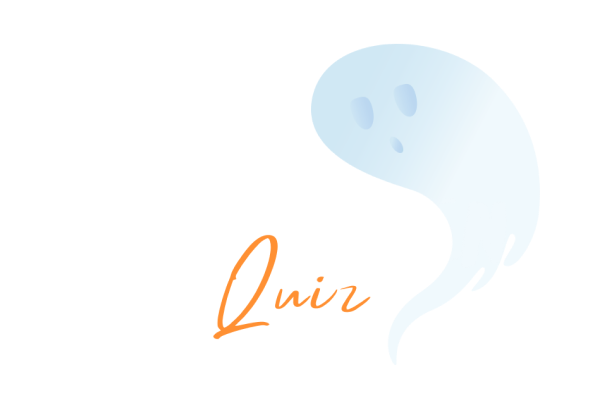
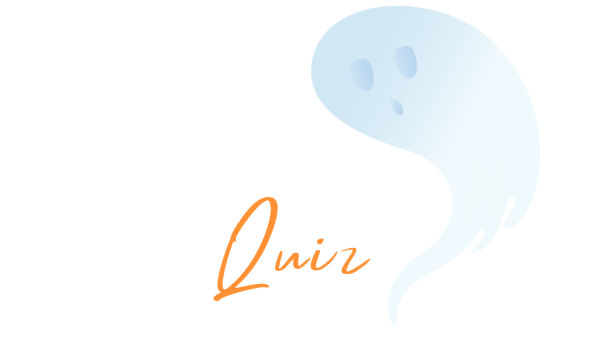
fixed position

diff --git a/src/pages/SummaryPage/SummaryPage.css b/src/pages/SummaryPage/SummaryPage.css
@@ -1,24 +1,8 @@
 .summary-wrapper {
   color: #fff;
   text-align: center;
-  display: flex;
-  flex-direction: column;
-  gap: 3rem;
-  position: absolute;
-  top: 45%;
-  left: 50%;
-  transform: translate(-50%, -50%);
   max-width: 20rem;
-  width: 100%;
-}
-
-.score-text {
-  font-style: italic;
-  font-size: 2rem;
-}
-
-.restart-btn {
-  box-shadow: 0px 16px 24px 0px rgba(255, 255, 255, 0.3);
+  min-width: 18.75rem;
 }
 
 .completed-text {
@@ -26,8 +10,14 @@
   font-weight: 600;
 }
 
+.score-text {
+  font-style: italic;
+  font-size: 2rem;
+  margin: 3rem 0 2rem
+}
+
 .response-text {
   font-size: 1.4rem;
   font-weight: 500;
-  margin-bottom: 2rem;
+  margin-bottom: 6rem;
 }

diff --git a/src/pages/StartPage/StartPage.css b/src/pages/StartPage/StartPage.css
@@ -1,12 +1,11 @@
 .start-game-wrapper {
   max-width: 590px;
-  margin: 0 auto;
   color: #fff;
   text-align: center;
-  display: flex;
-  flex-direction: column;
-  gap: 2.75rem;
-  padding-top: 3rem;
+}
+
+.title img {
+  min-width: 300px;
 }
 
 .slogan {
@@ -15,7 +14,7 @@
   font-weight: 800;
   letter-spacing: 1px;
   width: 13rem;
-  margin: auto;
+  margin: 1rem auto 4rem;
 }
 
 /* For medium devices */
@@ -24,8 +23,12 @@
     gap: 0;
   }
 
+  .title img {
+    max-width: 500px;
+  }
+
   .slogan {
     width: 100%;
-    margin-bottom: 4rem;
+    /* margin-bottom: 4rem; */
   }
 }

diff --git a/src/index.css b/src/index.css
@@ -41,15 +41,13 @@ body {
   /* For mobile, becuase by default background is white which you can see at the top of the device */
   background-color: #06191f;
   height: 100vh;
-}
-
-/*---------- REUSABLE CSS CLASSES ----------*/
-/*---------- LAYOUT ----------*/
-.main-wrapper {
-  margin: 0 1rem;
   position: relative;
 }
 
-.questions-card {
-  margin: auto;
+/*---------- LAYOUT ----------*/
+.main-wrapper {
+  position: absolute;
+  top: 50%;
+  left: 50%;
+  transform: translate(-50%, -50%);
 }

diff --git a/src/components/ButtonLink/ButtonLink.css b/src/components/ButtonLink/ButtonLink.css
@@ -7,9 +7,9 @@
 
 .btn-layout {
   display: flex;
-  align-items: center;
   justify-content: center;
-  margin: 0 auto;
+  align-items: center;
+  margin: auto;
 }
 
 .btn-gradient {
@@ -27,7 +27,7 @@
   transition: 1s;
   background-size: 200% auto;
   padding: 1rem 2rem;
-  min-width: 206px;
+  min-width: 13rem;
 }
 
 .btn-gradient:hover {

diff --git a/src/pages/ErrorPage/ErrorPage.css b/src/pages/ErrorPage/ErrorPage.css
@@ -1,16 +1,11 @@
 .error-page-wrapper {
-    max-width: 20rem;
+  max-width: 20rem;
   width: 100%;
   color: #fff;
   text-align: center;
   display: flex;
   flex-direction: column;
   gap: 2rem;
-  width: 100%;
-  position: absolute;
-  top: 50%;
-  left: 50%;
-  transform: translate(-50%, -50%);
 }
 
 .errorpage-btn {

diff --git a/src/pages/QuestionPage/QuestionPage.css b/src/pages/QuestionPage/QuestionPage.css
@@ -1,8 +1,4 @@
 .questions-wrapper {
   max-width: 20rem;
-  width: 100%;
-  position: absolute;
-  top: 50%;
-  left: 50%;
-  transform: translate(-50%, -50%);
+  min-width: 18.75rem;
 }

diff --git a/src/components/CurrentOptions/CurrentOptions.css b/src/components/CurrentOptions/CurrentOptions.css
@@ -31,5 +31,4 @@
 .incorrect-icon {
   height: 1.3rem;
   width: 1.3rem;
-  z-index: 1000;
 }
